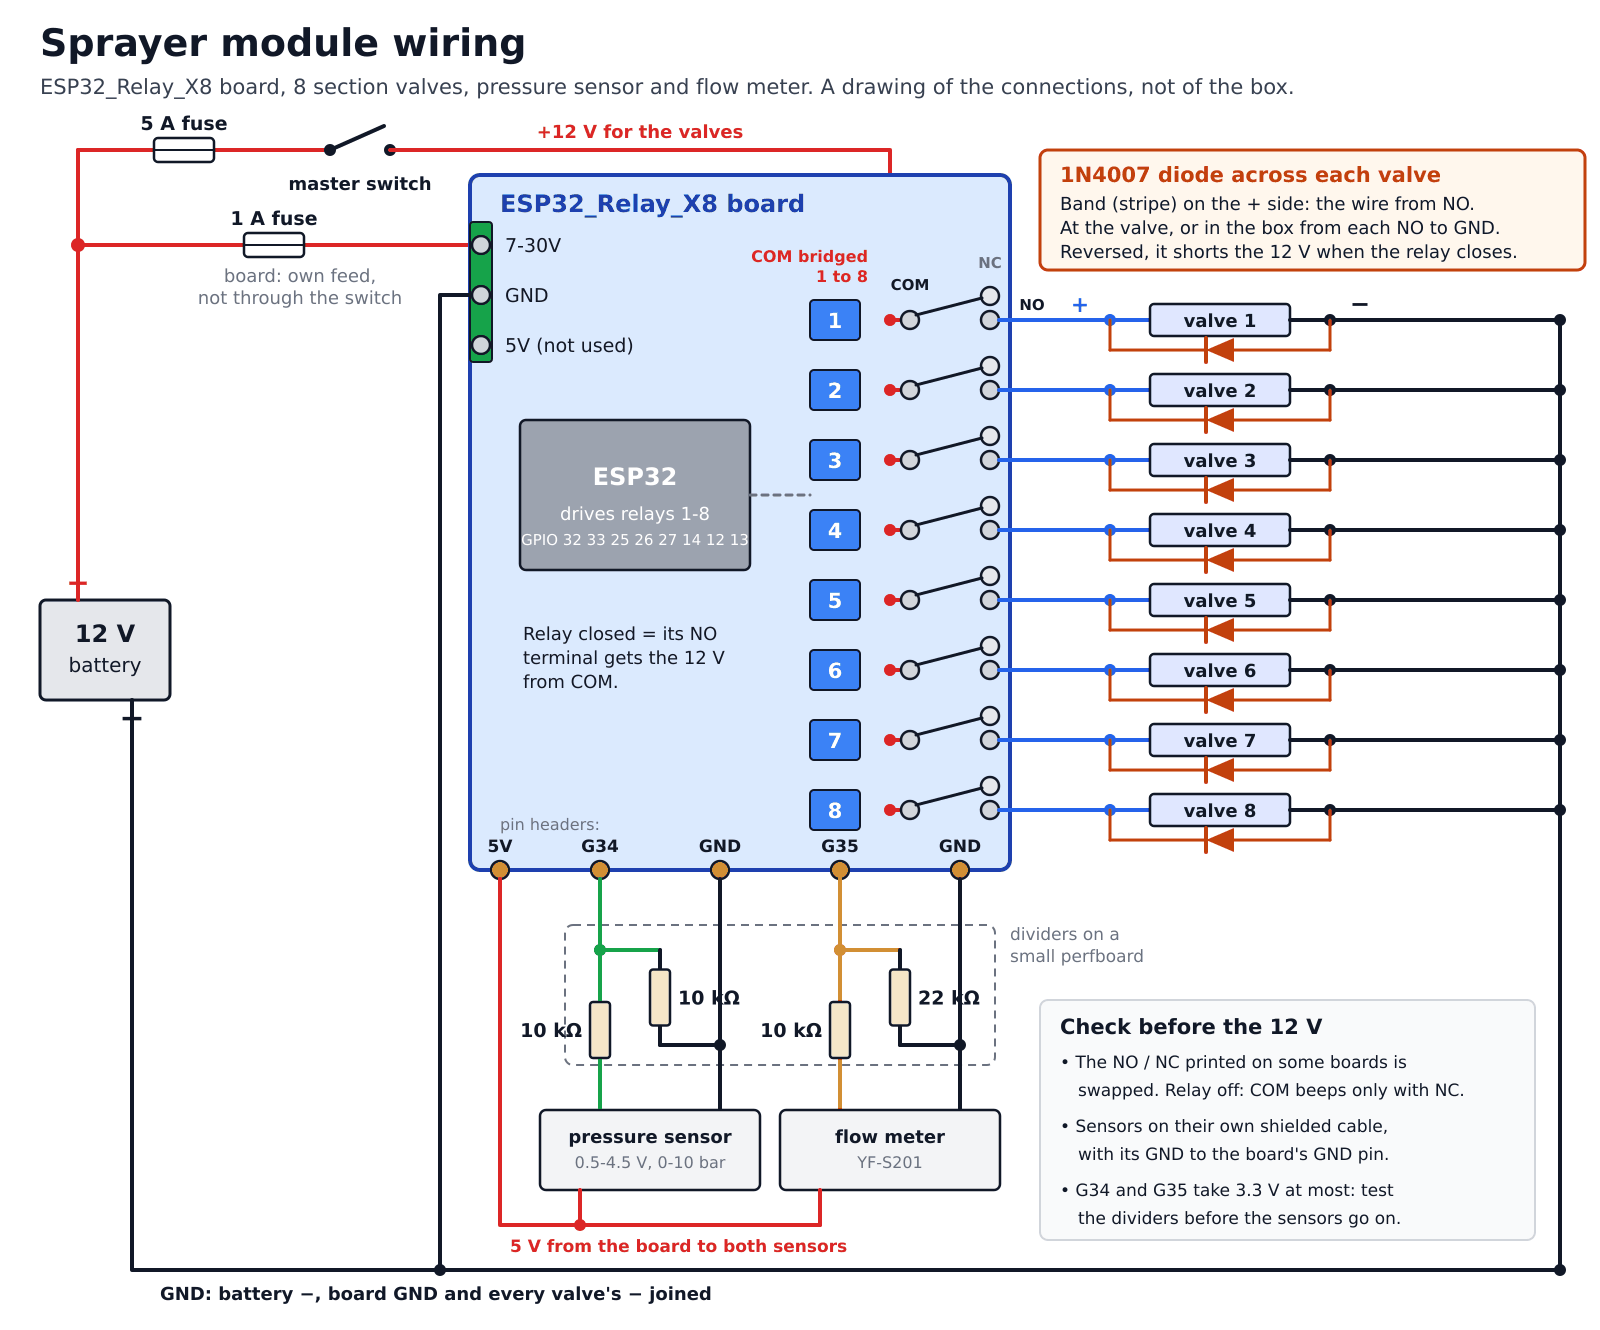
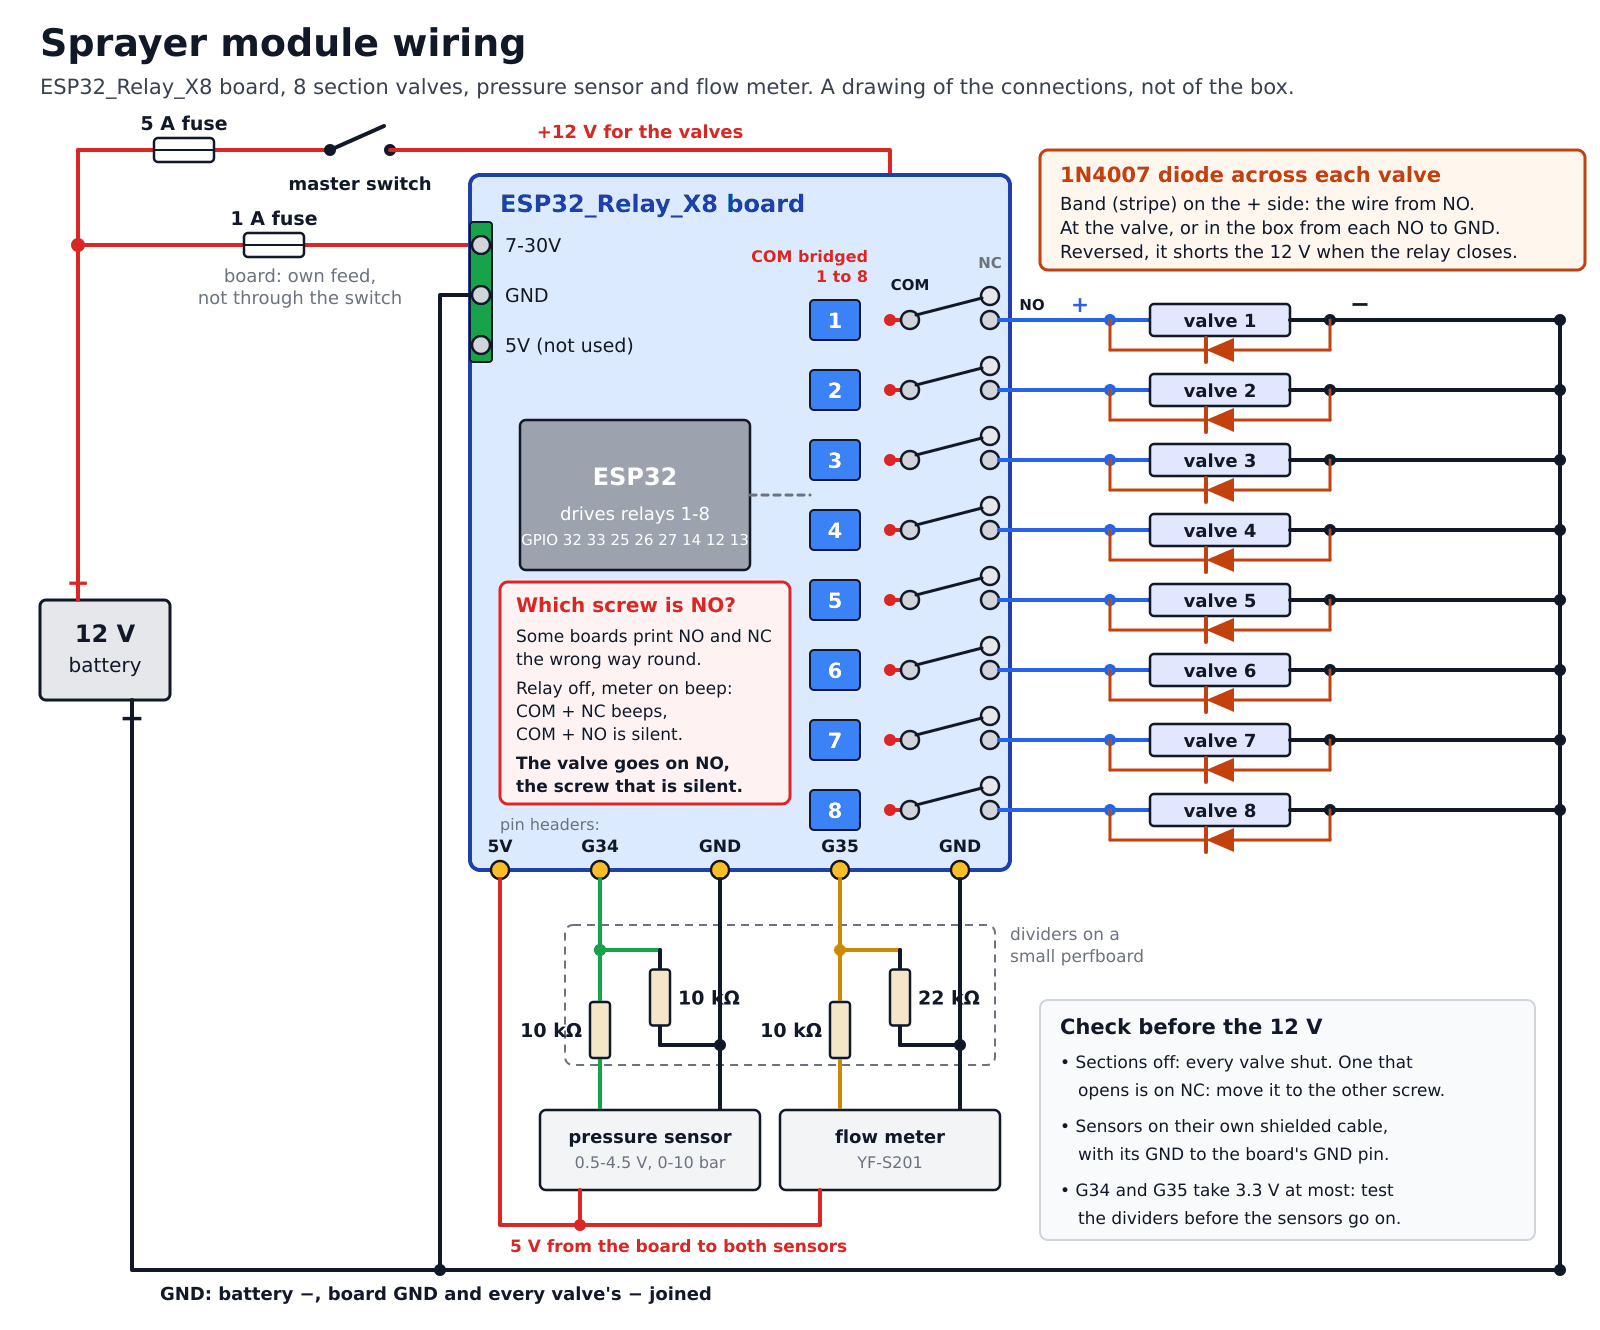
Sprayer README: which screw is NO, the print can be swapped
Some ESP32_Relay_X8 boards (the one in the photo too) print NO and NC
the wrong way round: following the print puts the valves on NC, and they
open with the sections off. The drawing gets a "Which screw is NO?" box
(relay off, meter on beep: COM + NC beeps, the valve goes on the silent
screw) and the "sections off, every valve shut" check; the Wiring list and
the photo's item 4 say the same.

Claude-Session: https://claude.ai/code/session_01VKEBDFfXqtvjNqD5N49xLV

diff --git a/Sprayer/Sprayer_ESP32/images/wiring.py b/Sprayer/Sprayer_ESP32/images/wiring.py
@@ -114,9 +114,17 @@ text(635, 485, "ESP32", 24, "white", True, "middle")
 text(635, 520, "drives relays 1-8", 18, "white", False, "middle")
 text(635, 545, "GPIO 32 33 25 26 27 14 12 13", 15, "white", False, "middle")
 line([(750, 495), (810, 495)], GREY, 3, "6 6")
-text(523, 640, "Relay closed = its NO", 18, BLK)
-text(523, 664, "terminal gets the 12 V", 18, BLK)
-text(523, 688, "from COM.", 18, BLK)
+# which screw is NO: the print can be wrong
+rect(500, 582, 290, 222, fill="#fef2f2", stroke=RED, sw=3, r=8)
+text(516, 612, "Which screw is NO?", 20, RED, True)
+for k, s in enumerate(("Some boards print NO and NC",
+                       "the wrong way round.",
+                       "Relay off, meter on beep:",
+                       "COM + NC beeps,",
+                       "COM + NO is silent.",
+                       "The valve goes on NO,",
+                       "the screw that is silent.")):
+    text(516, 642 + 23 * k + (6 if k >= 2 else 0) + (6 if k >= 5 else 0), s, 17, BLK, k >= 5)
 
 # relays: COM bus at x=890, COM at 910, NC at (990, y-22), NO at (990, y)
 ROWS = [320 + 70 * i for i in range(8)]
@@ -210,8 +218,8 @@ text(160, 1300, "GND: battery −, board GND and every valve's − joined", 18, 
 # ---- checks
 rect(1040, 1000, 495, 240, fill="#f9fafb", stroke="#d1d5db", sw=2, r=8)
 text(1060, 1034, "Check before the 12 V", 21, BLK, True)
-for k, s in enumerate(("The NO / NC printed on some boards is",
-                       "swapped. Relay off: COM beeps only with NC.",
+for k, s in enumerate(("Sections off: every valve shut. One that",
+                       "opens is on NC: move it to the other screw.",
                        "Sensors on their own shielded cable,",
                        "with its GND to the board's GND pin.",
                        "G34 and G35 take 3.3 V at most: test",

diff --git a/Sprayer/Sprayer_ESP32/README.md b/Sprayer/Sprayer_ESP32/README.md
@@ -15,7 +15,7 @@ One row per day, in short; the details are in the sections of this file (the lin
 
 | Date | What changed |
 |---|---|
-| 27 Nov 2026 | A wiring drawing with a 1N4007 diode across each valve, the diodes in the parts list, and a numbered photo of a built box ([Wiring](#wiring), [The box](#the-box)). |
+| 27 Nov 2026 | A wiring drawing with a 1N4007 diode across each valve, the NO / NC check for boards printed the wrong way round, the diodes in the parts list, a numbered photo of a built box ([Wiring](#wiring), [The box](#the-box)). |
 | 24 Nov 2026 | **0.10.22**: an install checks the password before the file is sent ([The Firmware tab](#the-firmware-tab)). **0.10.23**: flow through the meter with every section closed is not counted as applied ([The litres applied](#the-litres-applied)). |
 | 23 Nov 2026 | **0.10.18-20**: after a restart nobody asked for, the module says which watchdog, what it was doing, the last relay change, the crash record ([Why the module started](#why-the-module-started)). **0.10.21**: [dot at the top](#the-dot-at-the-top) orange when the program is silent. |
 | 22 Nov 2026 | **0.10.15**, **0.10.17**: works on the AiO's XIAO WiFi with no router, subnet kept ([No router on the tractor](#no-router-on-the-tractor)). **0.10.16**: litres applied kept through a restart or a power cut; why it started is said ([How it works](#how-it-works)). |
@@ -296,12 +296,16 @@ divider (to-GND ÷ total) in the page's calibration.
 | Pressure sensor green (signal) | 10 kΩ → **G34**, and 10 kΩ from G34 to GND |
 | YF-S201 red / black | 5V pin / GND |
 | YF-S201 yellow (signal) | 10 kΩ → **G35**, and 22 kΩ from G35 to GND |
-| Valves | 12 V from the battery, 5 A fuse → master switch → relay COM. Relay NO → valve +. Valve − → GND. 1N4007 diode across each valve (stripe to +) |
+| Valves | 12 V from the battery, 5 A fuse → master switch → relay COM. Relay NO (open with the relay off) → valve +. Valve − → GND. 1N4007 diode across each valve (stripe to +) |
 
 - Use a separate shielded cable for the sensors, with its own GND wire back to the board.
 - All grounds (battery, board, valves) joined together.
 - On the tractor, solder the sensor wires or use a latching connector: Dupont jumpers
   come loose with the vibration.
+- **Which screw is NO**: some boards print NO and NC the wrong way round (the one in [the photo](#the-box) too).
+  - Relay off, multimeter on beep: COM beeps with NC, not with NO.
+  - The valve goes on the screw that stays silent, whatever is printed next to it.
+  - Then, with every section off, every valve must stay shut. A valve that opens with its section off is on NC.
 - One **1N4007 diode across each valve**, the band (stripe) on the + side, the wire from NO.
   - Fit it at the valve, or in the box from each NO terminal to GND.
   - Without it, a valve gives a voltage spike each time its relay opens. The spikes wear the relay contacts and can restart the module.
@@ -316,7 +320,7 @@ A box as built on the sprayer (photo of 25 Nov 2026). The diodes are not in this
 1. ESP32_Relay_X8 board, screwed to the box's mounting plate.
 2. Power terminal: 12 V in (red) and GND (blue).
 3. Brown wire loops bridge the COM terminals, so every relay gets the 12 V for the valves.
-4. Valve wires on the NO terminals, with ferrules.
+4. Valve wires on the NO contacts, with ferrules. On this board the screws printed NC are the real NO: the print is swapped.
 5. The sensor dividers on a small perfboard, with screw terminals for the sensor cable.
 6. WAGO 221 lever connectors join the common wires.
 7. In-line fuse holder.
